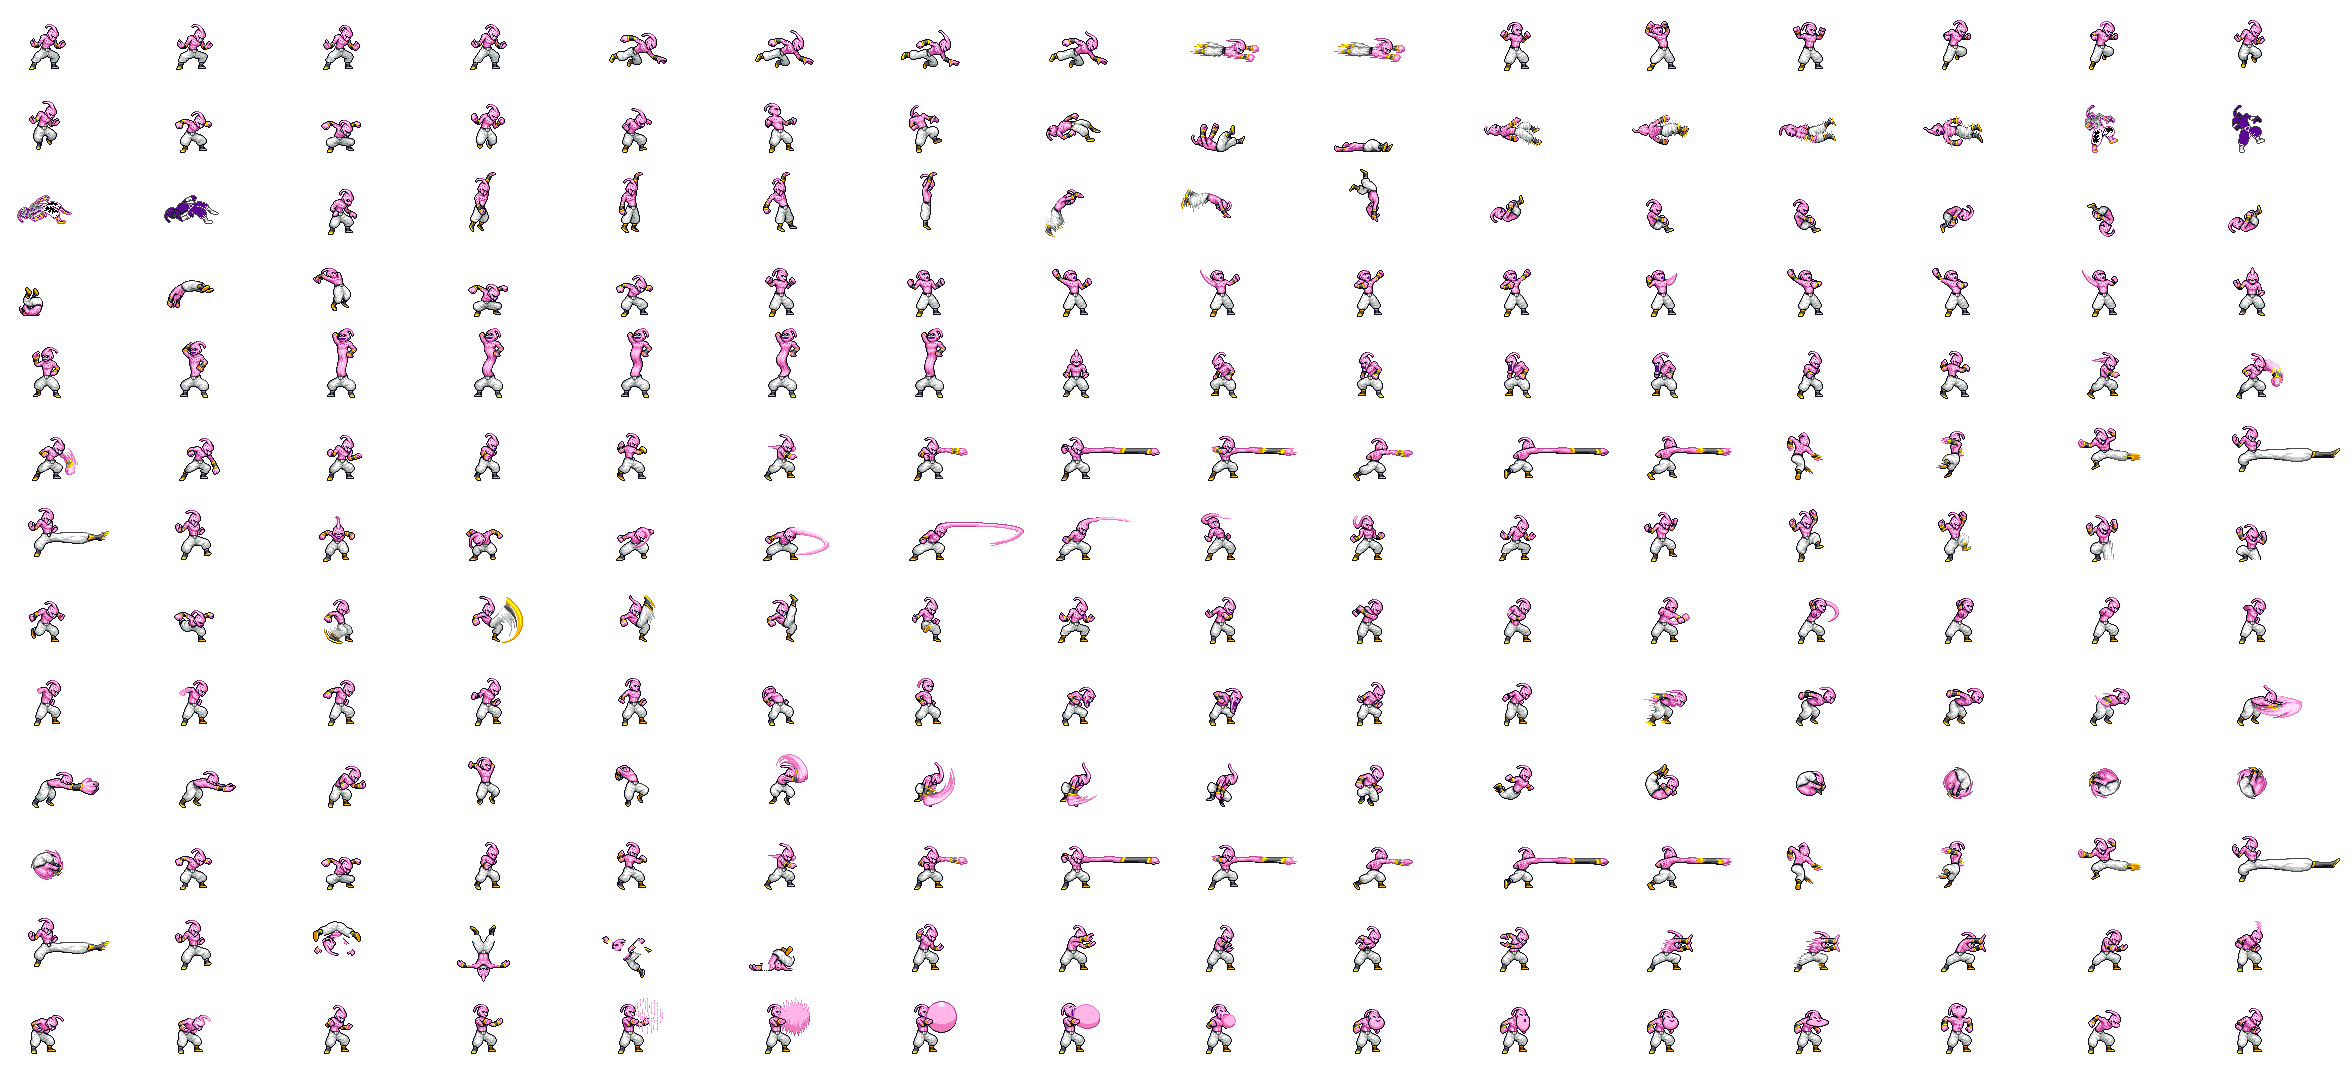
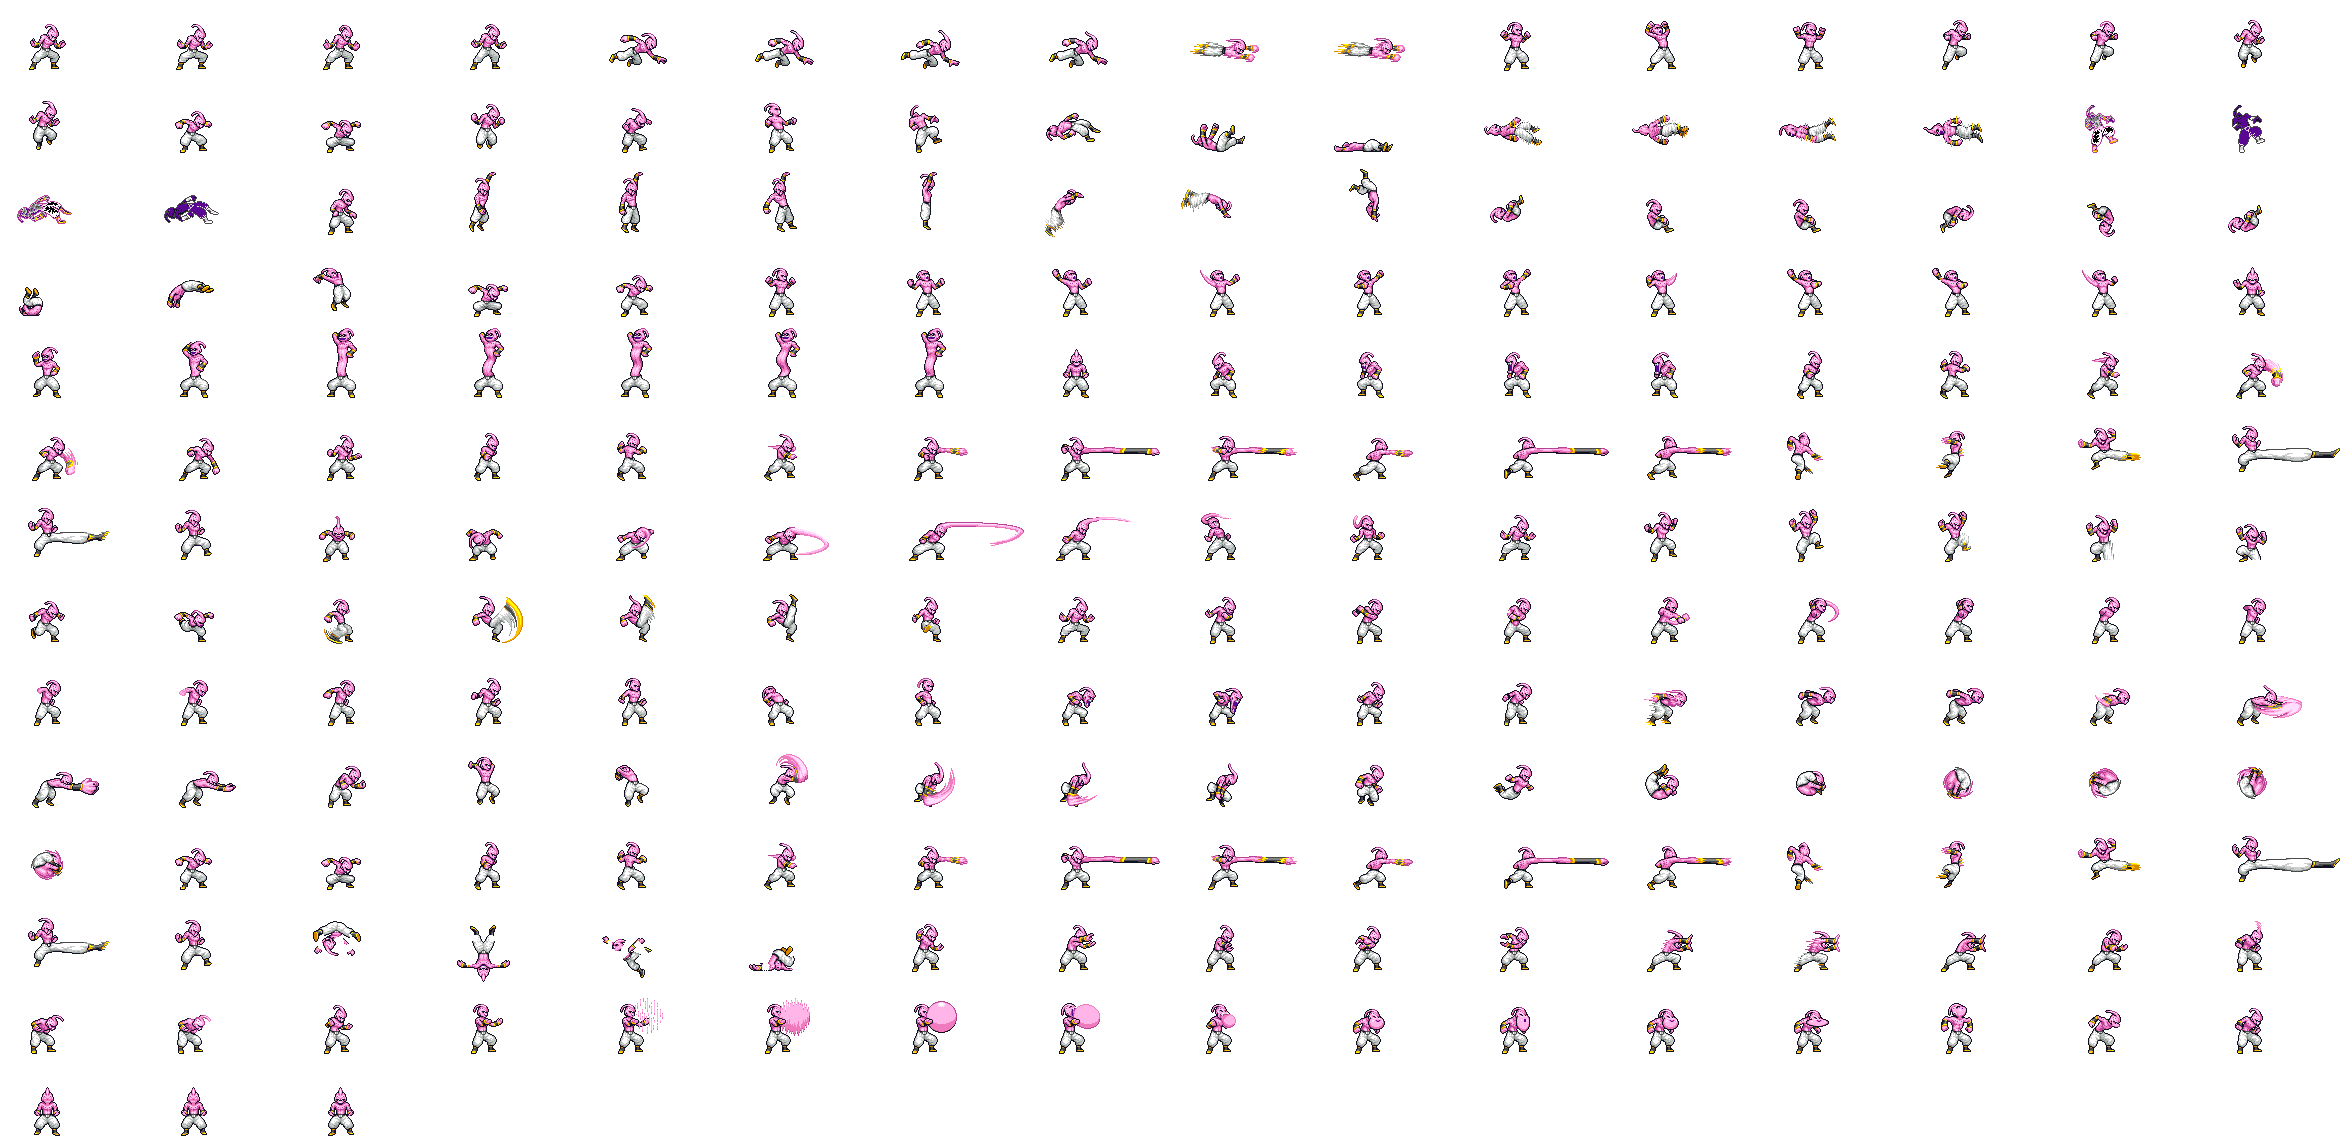
Thêm animation đi lên/xuống: khung quay lưng/quay mặt mới, nhún người khi đi
Claude-Session: https://claude.ai/code/session_011yiZVsufeoYxfkvoYuYJBM

diff --git a/src/app/chicken-shooting-game/nhan-vat-du-lieu.ts b/src/app/chicken-shooting-game/nhan-vat-du-lieu.ts
@@ -4,7 +4,7 @@ import { NhanVatSprite } from './nhan-vat-sprite';
 export const MABU: NhanVatSprite = {
   ten: 'Mabu', atlas: 'assets/game/mabu_atlas.png', atlasW: 2240, atlasH: 1176, w: 140, h: 84, cot: 16,
   neoX: 70, neoY: 81,
-  huong: { len: { dung: [199, 200, 201, 202], di: [191, 192, 193, 194] }, xuong: { dung: [3], di: [3] } },
+  huong: { len: { dung: [199], di: [199, 200, 201, 202, 201, 200] }, xuong: { dung: [3], di: [3, 211] } },
   anim: {
     idle: { f: [8, 9, 10, 9], ms: 150, lap: true },
     taunt_flex: { f: [130, 131, 132, 136, 137, 138, 137, 138], ms: 117, lap: false },
@@ -56,9 +56,10 @@ export const MABU: NhanVatSprite = {
 };
 
 export const ZINBU: NhanVatSprite = {
-  ten: 'Zinbu', atlas: 'assets/game/buu_atlas.png', atlasW: 2352, atlasH: 1066, w: 147, h: 82, cot: 16,
+  ten: 'Zinbu', atlas: 'assets/game/buu_atlas.png', atlasW: 2352, atlasH: 1148, w: 147, h: 82, cot: 16,
   neoX: 47, neoY: 70,
-  huong: { xuong: { dung: [98], di: [98, 99] } },
+  // 208-209: quay lưng (khung 71 xoá mặt, lật gương) · 210: khung 71 lật gương
+  huong: { len: { dung: [208], di: [208, 209] }, xuong: { dung: [71], di: [71, 210] } },
   anim: {
     idle: { f: [0, 1, 2, 3], ms: 133, lap: true },
     taunt_flex: { f: [10, 11, 12], ms: 167, lap: false },

diff --git a/src/app/chicken-shooting-game/nhan-vat-sprite.ts b/src/app/chicken-shooting-game/nhan-vat-sprite.ts
@@ -71,6 +71,14 @@ export class NhanVat {
     return this.sp.anim[this.anim].f[this.i];
   }
 
+  /** Độ nhún lên xuống (px sprite, âm = lên) khi đi theo chiều dọc: mỗi bước một nhịp nhún */
+  get nhun(): number {
+    if (this.huong === 'ngang' || this.anim !== 'run') return 0;
+    const a = this.sp.anim.run;
+    const pha = (this.i + this.tg / a.ms) / a.f.length;
+    return -Math.abs(Math.sin(2 * Math.PI * pha)) * 3;
+  }
+
   get khoa(): boolean {
     return this.trangThai === 'chet' || this.trangThai === 'dayLai';
   }

diff --git a/src/app/chicken-shooting-game/chicken-shooting-game.component.ts b/src/app/chicken-shooting-game/chicken-shooting-game.component.ts
@@ -825,7 +825,7 @@ export class ChickenShootingGameComponent implements AfterViewInit, OnDestroy {
 
   nvTransform(p: number): string {
     const n = this.nguoi[p];
-    return `translate(${n.x.toFixed(1)},${(n.y - n.nv.cao * S_NV).toFixed(1)}) scale(${S_NV})`;
+    return `translate(${n.x.toFixed(1)},${(n.y - (n.nv.cao - n.nv.nhun) * S_NV).toFixed(1)}) scale(${S_NV})`;
   }
 
   private viTriTay(p: number) {
